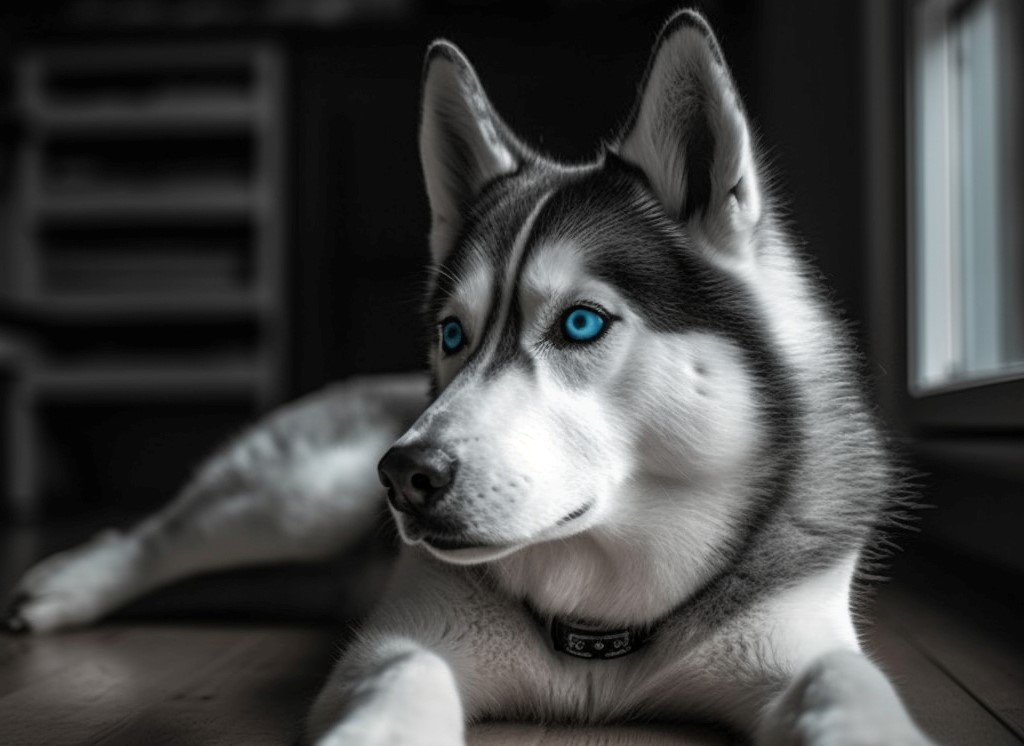
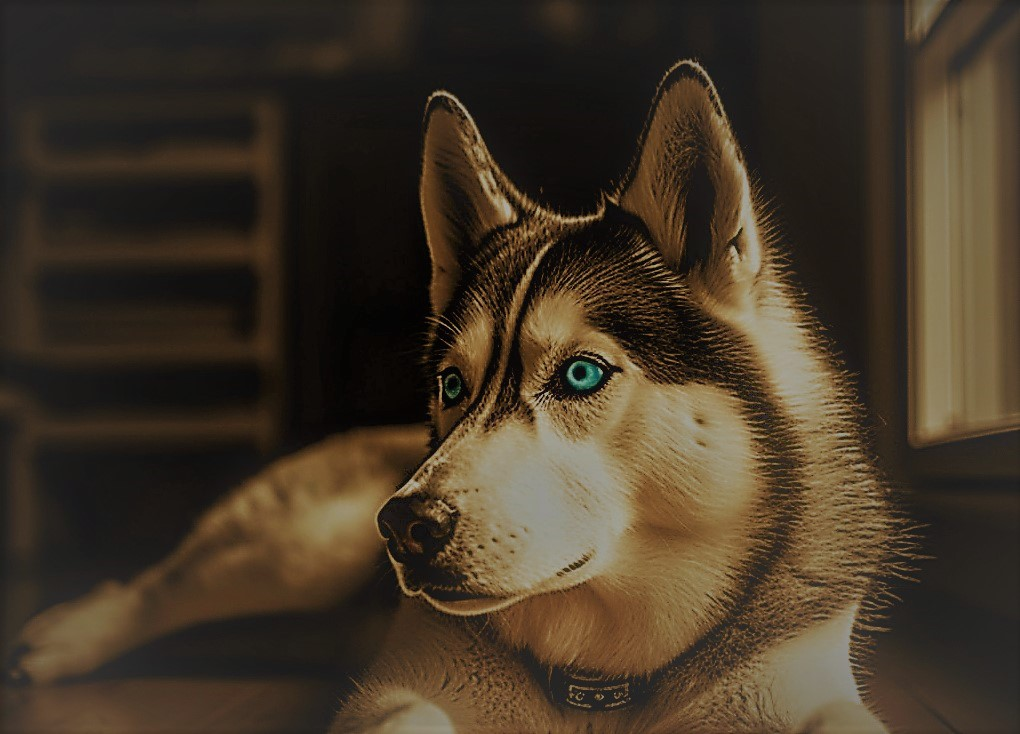
petTraining css added

diff --git a/styles.css b/styles.css
@@ -403,12 +403,13 @@ del{
   background-size: cover;
   color: white;
   height: 450px;
+  margin-bottom: 1px;
 }
 
 #pg2_2_0bookfree{
   height: 450px;
   width: 60%;
-  background-color: rgba(20,20,20,0.7);
+  background-color: rgba(20,20,20,0.8);
   /* border-top-left-radius:  20px;
   border-top-right-radius:  20px; */
   border-radius: 20px;

diff --git a/PetTraining.html b/PetTraining.html
@@ -21,7 +21,7 @@
 
 
   </head>
-  <body style="background-image:url('Images/footerImg.jpg'); background-repeat:no-repeat; background-size: contain">
+  <body style="background-image:url('Images/footerImg2.jpg'); background-repeat:no-repeat; background-size: contain">
 
 <!-- NAVBAR -->
  <!-- <img src="Images/pg2_2bg3.jpg" alt=""> -->
